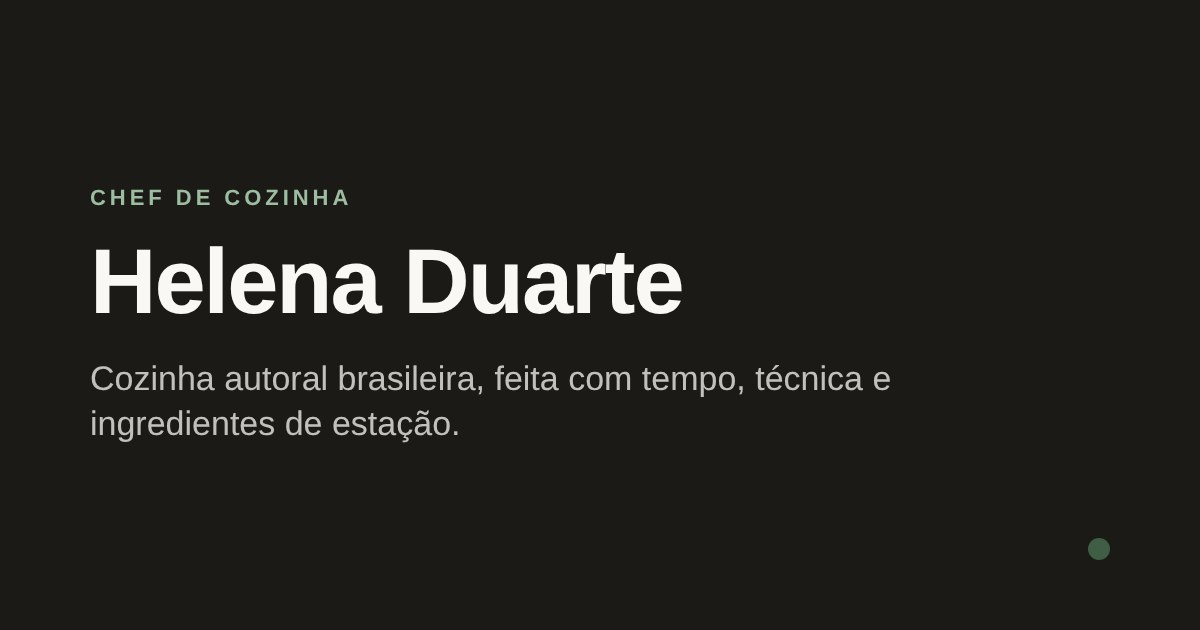
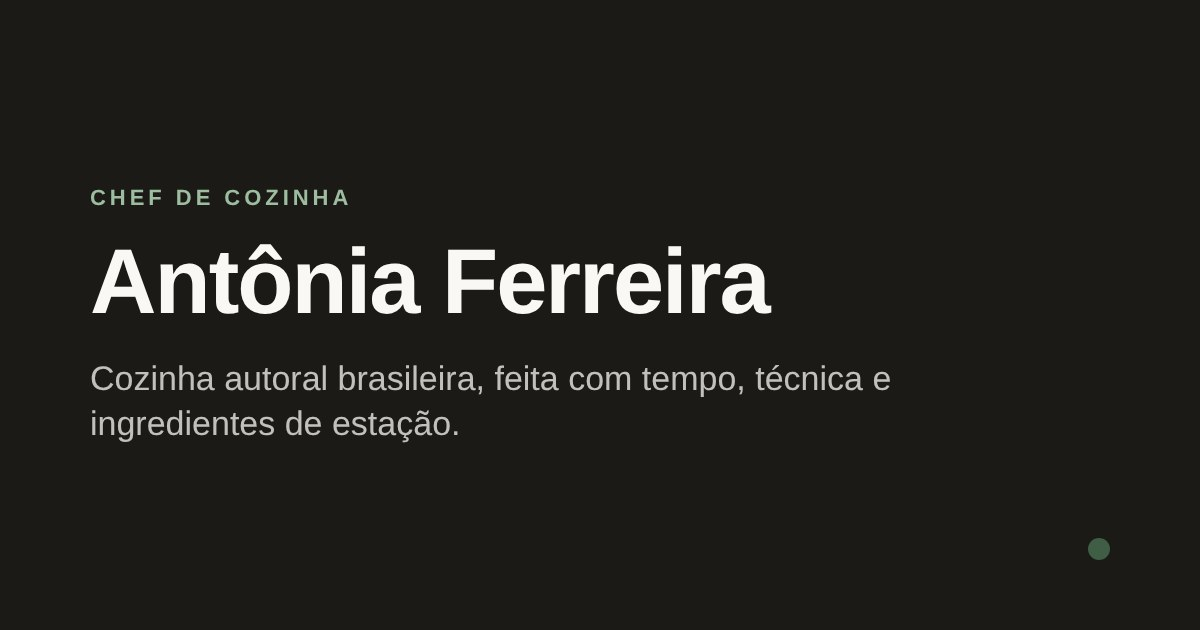
Troca o nome para Antônia Ferreira e usa URL completa na pré-visualização
Atualiza título, tags de compartilhamento, imagem de pré-visualização,
ícone e conteúdo de exemplo. Na Vercel, og:image e og:url passam a usar
o domínio completo do site, exigido pelo WhatsApp e redes sociais.

Claude-Session: https://claude.ai/code/session_01SNRwAmzVwrvy11YPVQ8juf

Changed region(s): [[0.0617, 0.3921, 0.6475, 0.5127]]

diff --git a/index.html b/index.html
@@ -4,7 +4,7 @@
     <meta charset="UTF-8" />
     <meta name="viewport" content="width=device-width, initial-scale=1, viewport-fit=cover" />
     <!-- SEO: edite estes textos com o seu nome e a URL final do site -->
-    <title>Helena Duarte — Chef de cozinha</title>
+    <title>Antônia Ferreira — Chef de cozinha</title>
     <meta name="description" content="Cozinha autoral brasileira, feita com tempo, técnica e ingredientes de estação. Portfólio, menus e eventos." />
     <meta name="theme-color" content="#121110" />
     <script>
@@ -16,7 +16,7 @@
     <!-- Pré-visualização ao compartilhar (WhatsApp, Instagram, Facebook) -->
     <meta property="og:type" content="website" />
     <meta property="og:locale" content="pt_BR" />
-    <meta property="og:title" content="Helena Duarte — Chef de cozinha" />
+    <meta property="og:title" content="Antônia Ferreira — Chef de cozinha" />
     <meta property="og:description" content="Cozinha autoral brasileira, feita com tempo, técnica e ingredientes de estação." />
     <meta property="og:image" content="/og-image.jpg" />
     <meta property="og:image:width" content="1200" />

diff --git a/src/lib/seed.js b/src/lib/seed.js
@@ -34,7 +34,7 @@ export const seedPhotos = [
 
 export const seedSettings = {
   id: 1,
-  name: 'Helena Duarte',
+  name: 'Antônia Ferreira',
   role: 'Chef de cozinha',
   tagline: 'Cozinha autoral brasileira, feita com tempo, técnica e ingredientes de estação.',
   about_title: 'Cozinhar é contar histórias com o que a terra oferece.',
@@ -47,7 +47,7 @@ export const seedSettings = {
   education: 'Gastronomia — Universidade Anhembi Morumbi (2012)\nCuisine et Pâtisserie — Le Cordon Bleu, Paris (2014)\nCurso de Fermentação Natural — Lisboa (2018)',
   experience: 'Subchef — Restaurante Mesa Viva, São Paulo (2015–2018)\nChef de partie — Maison Laurent, Lyon (2018–2020)\nChef executiva — Casa Tempero, Belo Horizonte (2020–2024)\nChef independente e consultora (desde 2024)',
   specialties: 'Menus degustação\nCozinha mineira contemporânea\nFermentação\nConfeitaria de estação\nJantares privados',
-  email: 'contato@helenaduarte.com.br',
+  email: 'contato@antoniaferreira.com.br',
   whatsapp: '5511999999999',
   instagram: 'https://instagram.com/',
   facebook: '',

diff --git a/vite.config.js b/vite.config.js
@@ -1,3 +1,24 @@
 import { defineConfig } from 'vite'
 import react from '@vitejs/plugin-react'
-export default defineConfig({ plugins: [react()] })
+
+// WhatsApp, Instagram e Facebook exigem o endereço COMPLETO da imagem de
+// pré-visualização. Na Vercel, o domínio do site é preenchido automaticamente;
+// em outro serviço, defina SITE_URL (ex.: https://meusite.com.br).
+const siteUrl = (process.env.SITE_URL ||
+  (process.env.VERCEL_PROJECT_PRODUCTION_URL ? `https://${process.env.VERCEL_PROJECT_PRODUCTION_URL}` : '')
+).replace(/\/$/, '')
+
+export default defineConfig({
+  plugins: [
+    react(),
+    {
+      name: 'absolute-og-urls',
+      transformIndexHtml(html) {
+        if (!siteUrl) return html
+        return html
+          .replace('content="/og-image.jpg"', `content="${siteUrl}/og-image.jpg"`)
+          .replace('<meta property="og:type"', `<meta property="og:url" content="${siteUrl}/" />\n    <meta property="og:type"`)
+      },
+    },
+  ],
+})
